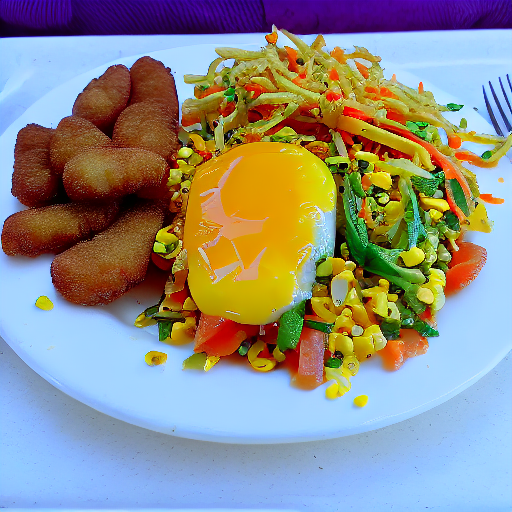
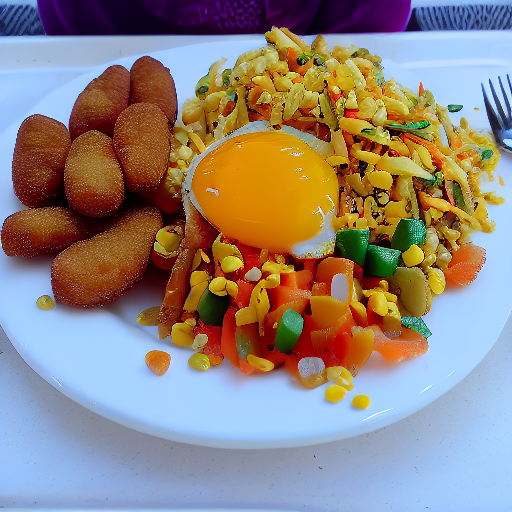
cat Mensafood before v4 prompts

diff --git a/lora/predict_lora_safetensors.py b/lora/predict_lora_safetensors.py
@@ -162,6 +162,8 @@ if __name__ == "__main__":
     prompt_csv = pd.read_csv(os.path.join(os.path.dirname(__file__), "../data/eval/gt_set/meals_eval_en.csv"))
 
     for i, prompt in enumerate(prompt_csv['description'].tolist()):
+        if 'forth' in args.lora_weights_dir: 
+            prompt = 'Mensafood ' + prompt
         args.prompt = prompt
         print(f"Running inference for prompt {i+1}/{len(prompt_csv)}: {prompt}")
         run_lora_inference(args)
